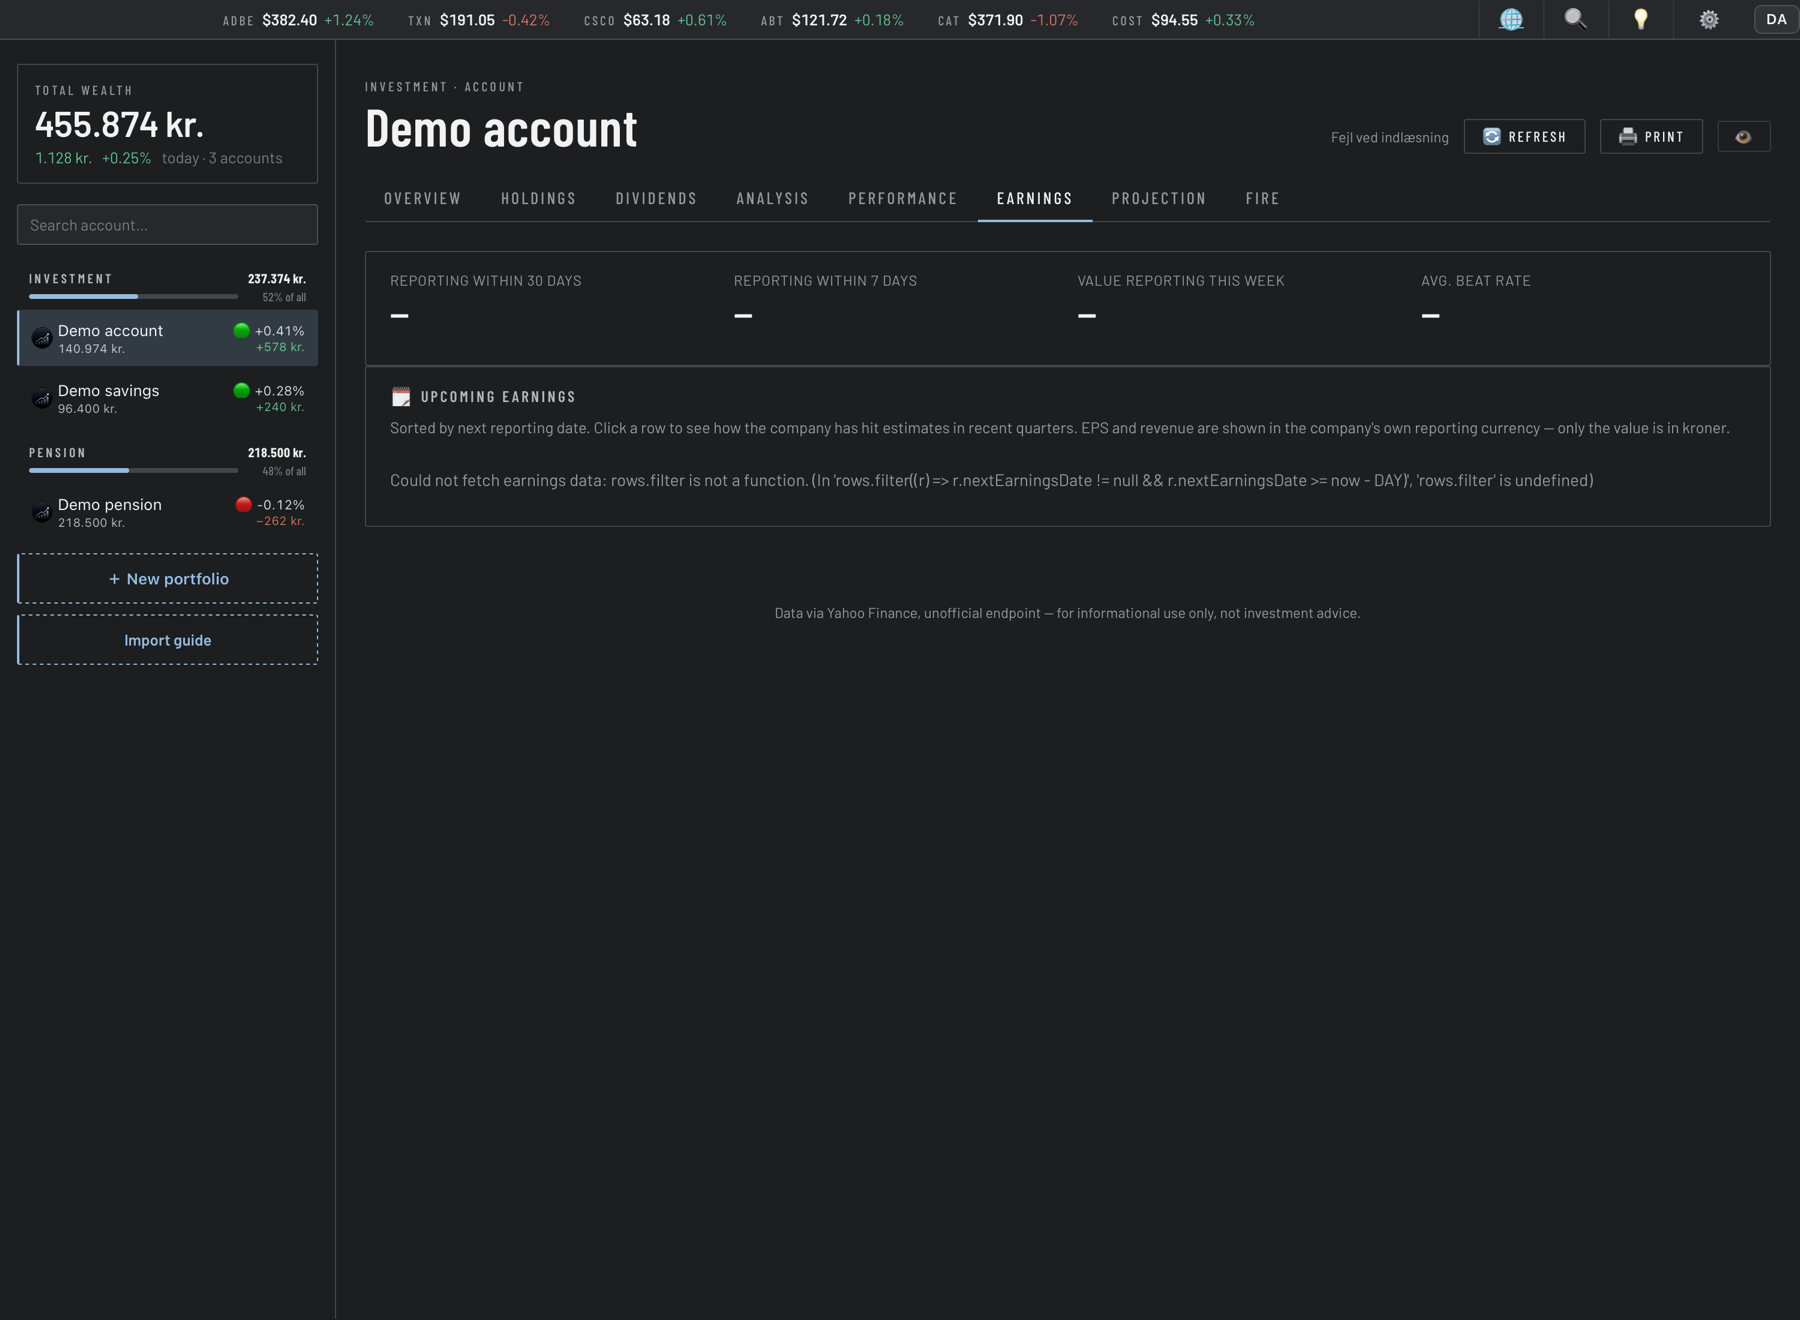
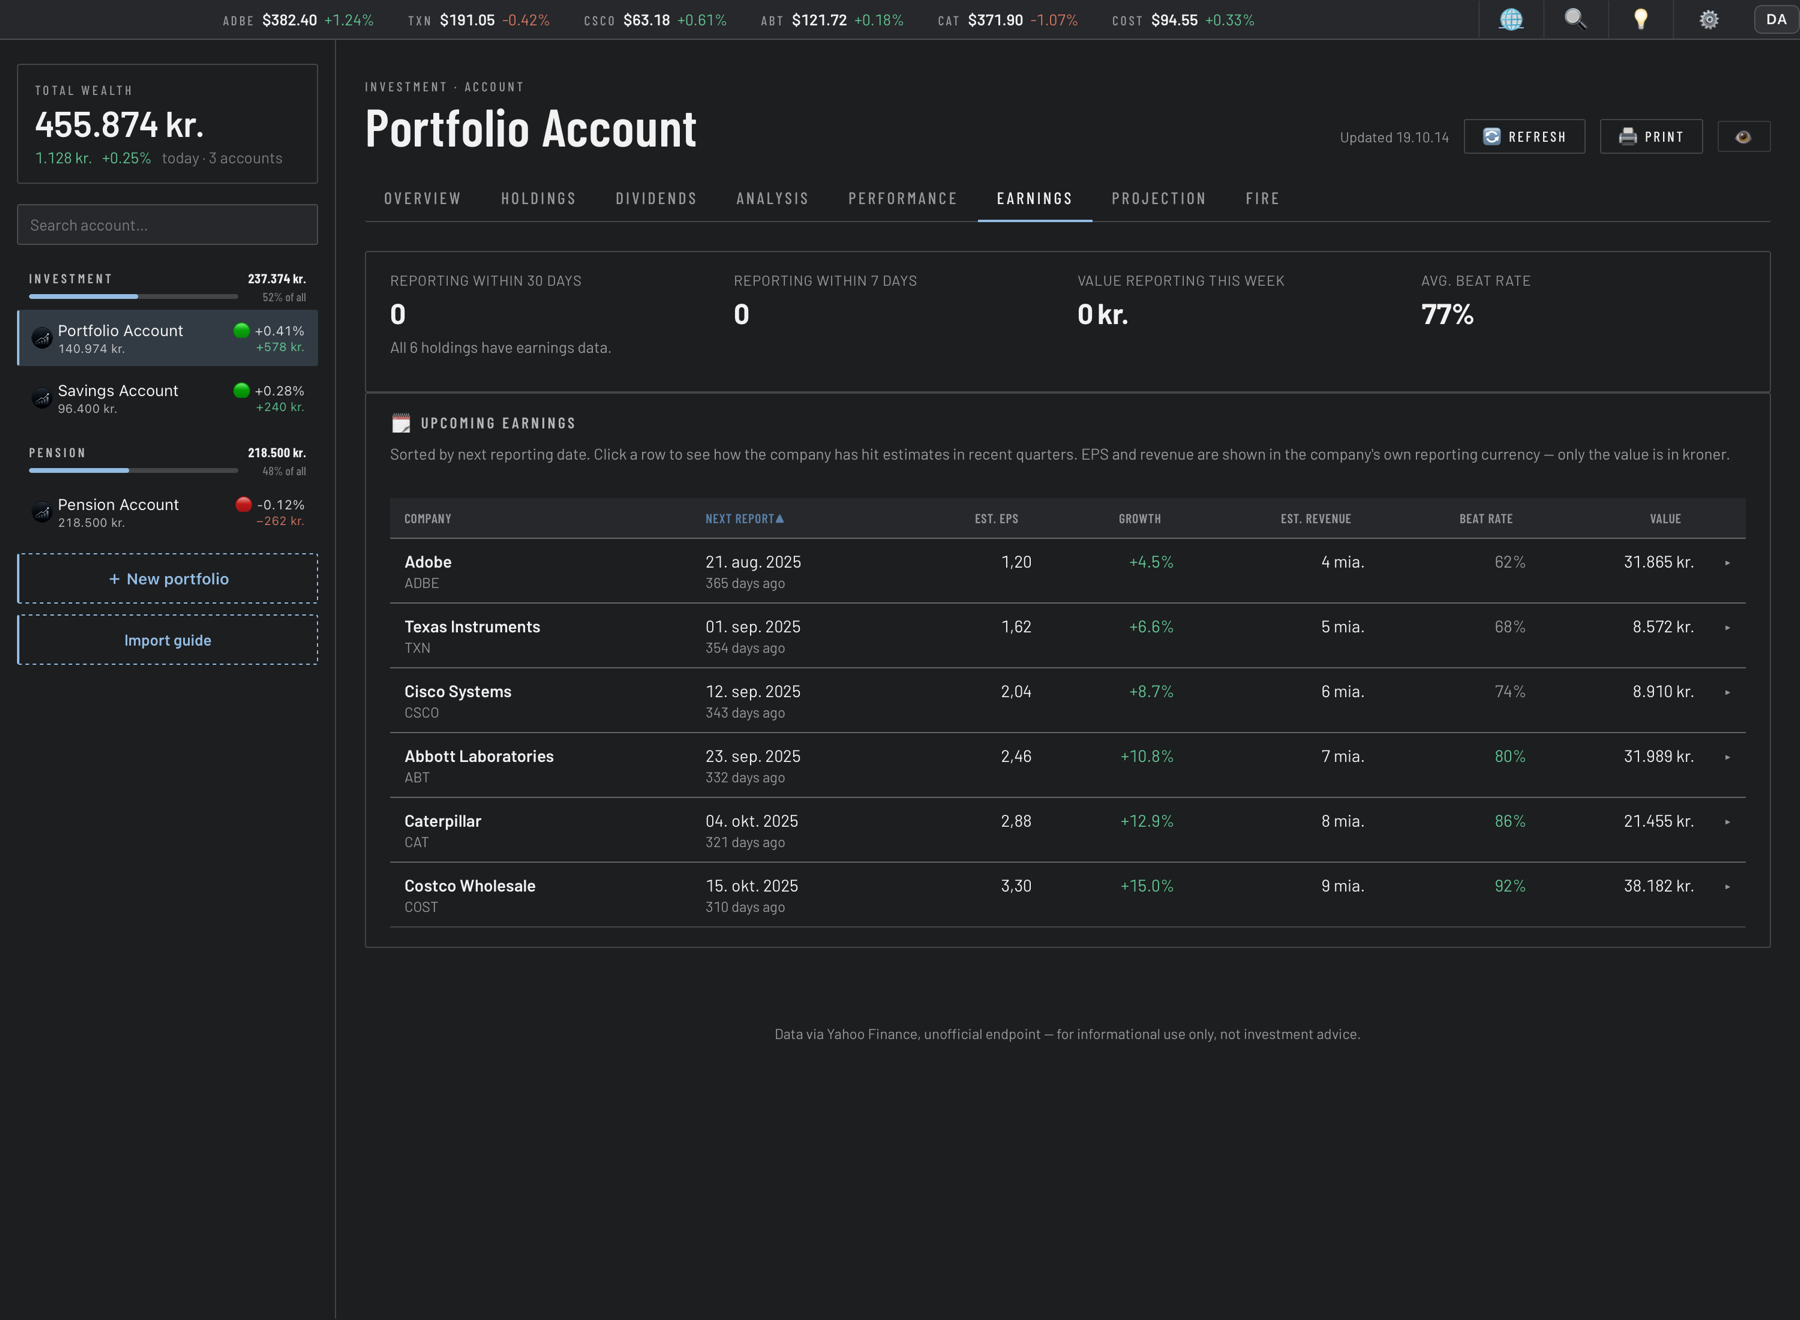
Udvikling og Regnskab var TOMME; FIRE ud; ét stort importbillede
⚠ To skaermbilleder viste en FEJL, ikke appen. Udvikling stod med "No
securities with price history in this account", Regnskab med "rows.filter is
not a function" midt paa siden -- demoserveren manglede /api/value-history og
svarede {} paa /api/earnings-table, hvor siden kalder rows.filter() direkte.

Min foerste kontrol saa ingen af delene. Den taalte TEGN og ledte efter "Ingen
data": en fejlbesked ER tekst, og den matchede ikke. Kontrollen leder nu efter
fejlens egne ord ("can't be shown", "is not a function", "Could not" ...) og
taeller skeletter og bare tankestreger.

Tre feltnavne var gaettet forkert og gav TOMHED frem for fejl:
- periodReturns["1u"] -- noeglen er "1w"; "1u" er etiketten. Alle ni perioder
  stod med "—".
- headline.returnPct/valueDkk -- renderHead laeser pct/dkk. Overskriften stod
  "— —".
- aggregate.perPortfolio manglede, saa FIRE regnede formuen til 0 kr.

FIRE er taget UD af fanevaelgeren. Den er en beregner: tallene kommer fra
brugerens egne indtastninger og depot-tagging, og med demodata er den en tom
formular med "fx 5000000" i felterne. Et tomt skema saelger daarligere end
ingen fane. De syv oevrige viser rigtigt indhold.

Depoterne hedder nu Portfolio Account / Savings Account / Pension Account.

Importafsnittet: Nordnet-trinnene er fjernet, og bankvaelgeren staar i fuld
bredde.

Efterproevet i et rigtigt WKWebView: syv faner, skift virker, aktiv-markering
foelger med, alle otte billeder loader, ordboegerne har samme 94 noegler.

diff --git a/index.html b/index.html
@@ -120,6 +120,10 @@
   .shots-2 img{display:block;width:100%;height:auto;border-radius:12px;border:1px solid var(--border);
     box-shadow:0 18px 44px rgba(0,0,0,.45)}
   .shots-2 figcaption{color:var(--dim);font-size:14.5px;line-height:1.55;margin-top:12px}
+  .shot-wide{margin:28px 0 0}
+  .shot-wide img{display:block;width:100%;height:auto;border-radius:14px;border:1px solid var(--border);
+    box-shadow:0 24px 60px rgba(0,0,0,.5);cursor:zoom-in}
+  .shot-wide figcaption{color:var(--dim);font-size:15px;line-height:1.6;margin-top:14px}
   /* Fanevaelgeren: ét stort billede ad gangen, som i appen selv. */
   .tabshot{margin-top:26px}
   .tabshot-tabs{display:flex;flex-wrap:wrap;gap:8px;margin-bottom:18px}
@@ -368,7 +372,6 @@
         <button class="tabshot-tab" type="button" data-shot="udvikling" aria-selected="false" data-i18n="tab_udvikling">Udvikling</button>
         <button class="tabshot-tab" type="button" data-shot="earnings" aria-selected="false" data-i18n="tab_earnings">Regnskab</button>
         <button class="tabshot-tab" type="button" data-shot="fremskrivning" aria-selected="false" data-i18n="tab_fremskrivning">Prognose</button>
-        <button class="tabshot-tab" type="button" data-shot="fire" aria-selected="false" data-i18n="tab_fire">FIRE</button>
       </div>
       <figure class="tabshot-fig" data-shot="index">
         <img src="img/tab-index.png" alt="Portfolio Dashboard — Overview" width="1800" height="1320" loading="eager" />
@@ -398,10 +401,6 @@
         <img src="img/tab-fremskrivning.png" alt="Portfolio Dashboard — Projection" width="1800" height="1320" loading="lazy" />
         <figcaption data-i18n="cap_fremskrivning"></figcaption>
       </figure>
-      <figure class="tabshot-fig" data-shot="fire" hidden>
-        <img src="img/tab-fire.png" alt="Portfolio Dashboard — FIRE" width="1800" height="1320" loading="lazy" />
-        <figcaption data-i18n="cap_fire"></figcaption>
-      </figure>
     </div>
   </div>
 </section>
@@ -413,16 +412,10 @@
     <h2 data-i18n="imp_h2">Hent dine beholdninger automatisk</h2>
     <p class="lead" data-i18n="imp_lead">Nordnet, Saxo Bank og Nordea hentes direkte i appen — beholdninger, købsdatoer og historik. Du logger ind på bankens egen side, og du godkender, før noget gemmes.</p>
 
-    <div class="shots-2">
-      <figure>
-        <img src="img/import-banks.png" alt="Import guide — choose your bank" width="1800" height="900" loading="lazy" />
-        <figcaption data-i18n="imp_fig1">Importguiden: vælg din bank.</figcaption>
-      </figure>
-      <figure>
-        <img src="img/import-nordnet.png" alt="Import guide — import from Nordnet" width="1800" height="977" loading="lazy" />
-        <figcaption data-i18n="imp_fig2">Fire trin, og du godkender til sidst.</figcaption>
-      </figure>
-    </div>
+    <figure class="shot-wide">
+      <img src="img/import-banks.png" alt="Import guide — choose your bank" width="1800" height="900" loading="lazy" />
+      <figcaption data-i18n="imp_fig1">Importguiden: vælg din bank.</figcaption>
+    </figure>
 
     <div class="filebox">
       <h3><span class="ic">🔗</span><span data-i18n="imp_banks_h">Automatisk import fra tre banker</span><span class="badge" data-i18n="imp_badge">Nyt</span></h3>
@@ -655,7 +648,6 @@
       imp_3_h: "Du godkender, før noget gemmes",
       imp_3_p: "Du får først en oversigt over køb, salg og ændringer siden sidst. Intet skrives til din portefølje, før du siger ja.",
       imp_fig1: "Importguiden: vælg din bank.",
-      imp_fig2: "Fire trin — og du godkender til sidst.",
       file_h: '<span class="ic">📄</span>Eller importér en fil',
       file_lead: "Har du allerede en eksport fra din bank, kan du bruge den i stedet. Filtypen genkendes automatisk.",
       shots_h2: "Se den i brug",
@@ -667,7 +659,6 @@
       tab_udvikling: "Udvikling",
       tab_earnings: "Regnskab",
       tab_fremskrivning: "Prognose",
-      tab_fire: "FIRE",
       cap_index: "Samlet værdi, dagens bevægelse, udbytte og fordeling — for ét depot eller for alle på tværs.",
       cap_holdings: "Alle positioner i én tabel: kurs, værdi, kostbasis, afkast og udbytte.",
       cap_dividends: "Modtaget udbytte år for år, hvad der er på vej, og hvilke selskaber der betaler det.",
@@ -675,7 +666,6 @@
       cap_udvikling: "Depotets værdi og afkast måned for måned og år for år.",
       cap_earnings: "Hvornår dine selskaber aflægger regnskab, og hvad analytikerne forventer.",
       cap_fremskrivning: "Fremskriv depotet med dine egne forudsætninger om afkast og indskud.",
-      cap_fire: "Hvornår kan du gå på pension — med skat, pensionstyper og inflation regnet med."
     },
     en: {
       title: "Portfolio Dashboard — your portfolio, live on Mac",
@@ -761,7 +751,6 @@
       imp_3_h: "You approve before anything is saved",
       imp_3_p: "You get an overview of buys, sells and changes since last time first. Nothing is written to your portfolio until you say yes.",
       imp_fig1: "The import guide: choose your bank.",
-      imp_fig2: "Four steps — and you approve at the end.",
       file_h: '<span class="ic">📄</span>Or import a file',
       file_lead: "Already have an export from your bank? Use it instead — the file type is detected automatically.",
       shots_h2: "See it in use",
@@ -773,7 +762,6 @@
       tab_udvikling: "Performance",
       tab_earnings: "Earnings",
       tab_fremskrivning: "Projection",
-      tab_fire: "FIRE",
       cap_index: "Total value, today's move, dividends and allocation — for one account or across all of them.",
       cap_holdings: "Every position in one table: price, value, cost basis, return and yield.",
       cap_dividends: "Dividends received year by year, what is coming, and which companies pay it.",
@@ -781,7 +769,6 @@
       cap_udvikling: "The account's value and return, month by month and year by year.",
       cap_earnings: "When your companies report, and what analysts expect them to deliver.",
       cap_fremskrivning: "Project the account forward on your own assumptions about return and contributions.",
-      cap_fire: "When can you retire — with tax, pension types and inflation taken into account."
     }
   };
 
@@ -854,7 +841,7 @@
     // Klik paa et skaermbillede viser det i fuld stoerrelse.
     var box = document.getElementById("lightbox");
     var boxImg = document.getElementById("lightbox-img");
-    document.querySelectorAll(".tabshot-fig img, .shot img, .shots-2 img").forEach(function (img) {
+    document.querySelectorAll(".tabshot-fig img, .shot img, .shot-wide img").forEach(function (img) {
       img.addEventListener("click", function () {
         boxImg.src = img.currentSrc || img.src;
         boxImg.alt = img.alt;
